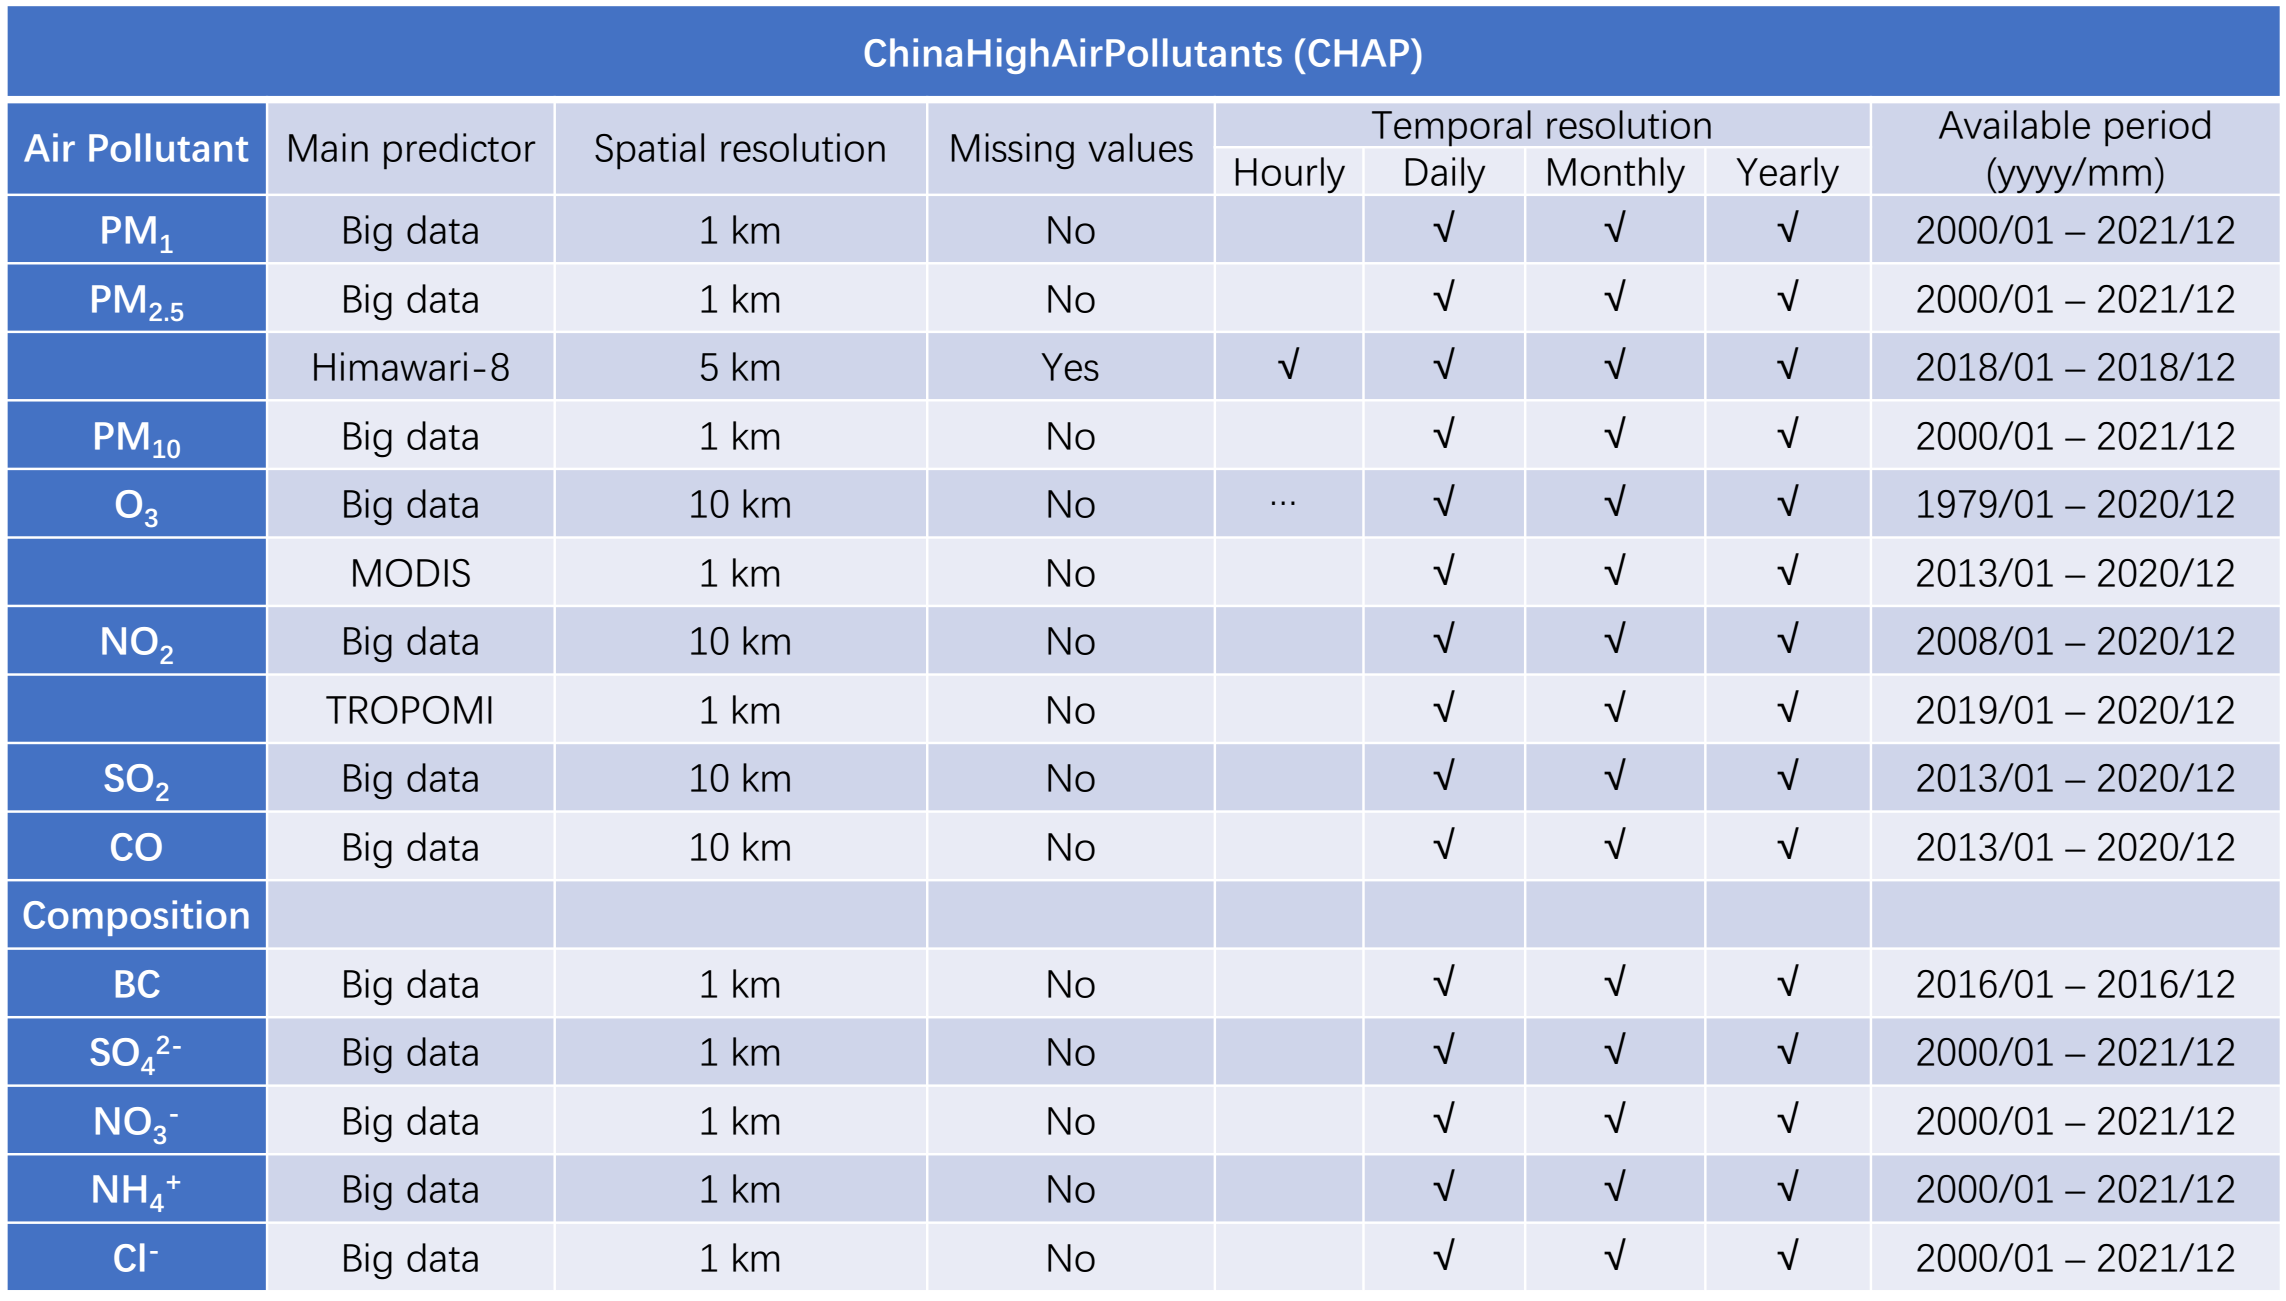
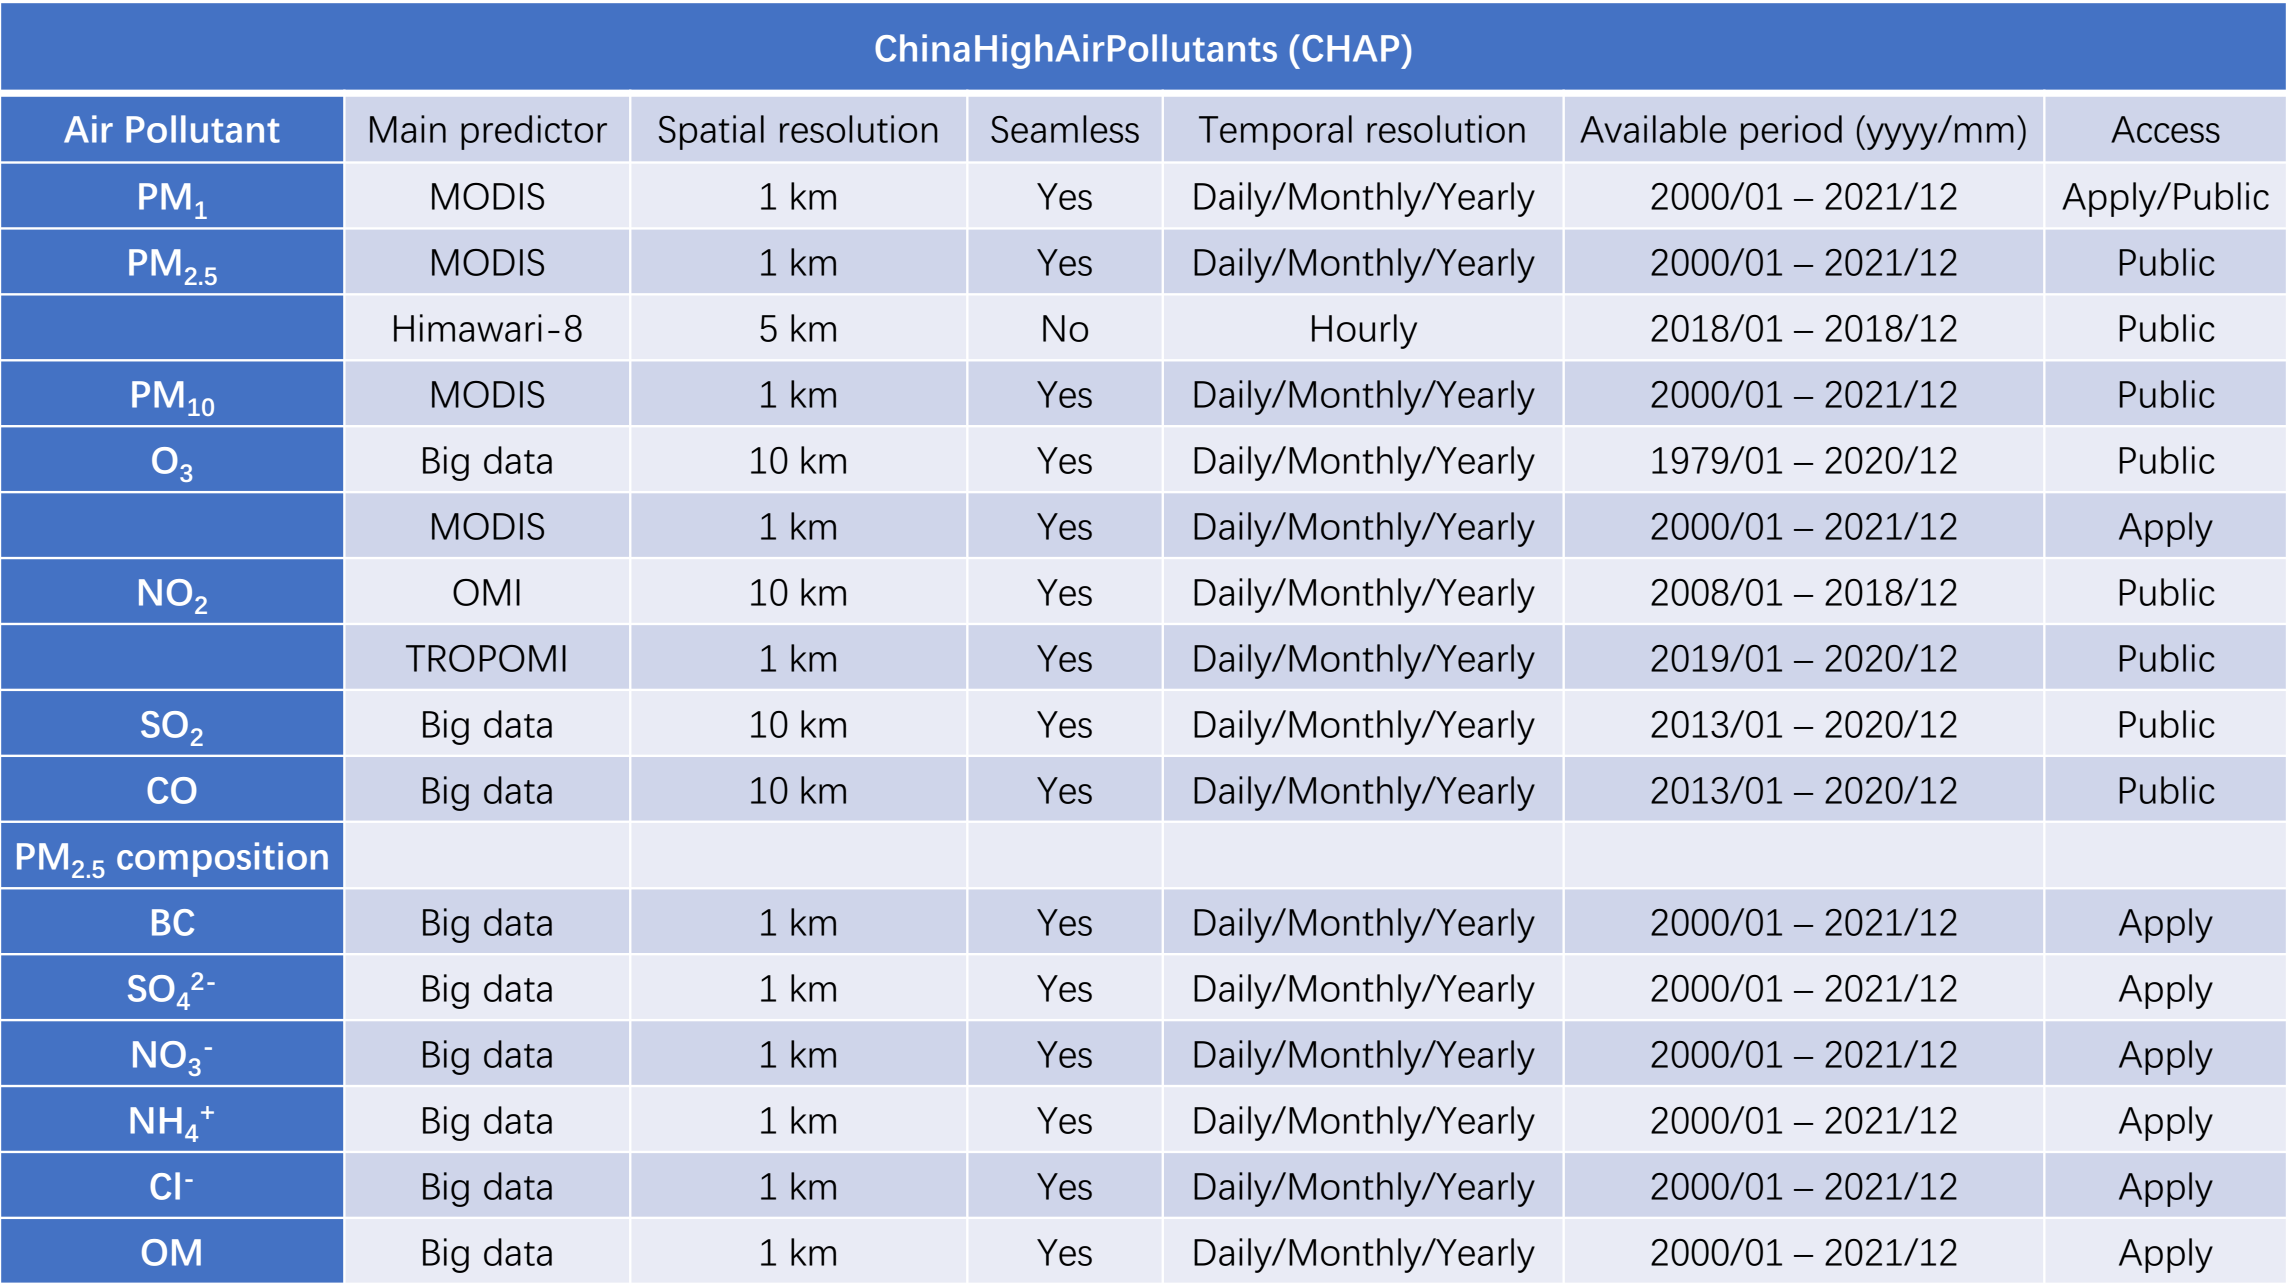
update

diff --git a/product.html b/product.html
@@ -47,7 +47,7 @@
 <div class="mdui-container doc-container">
   <div id="Product" style=" font-size:16px;"> 
     <p>&nbsp;</p>
-    <p style="text-align:center;"> <strong><font size="4" color="red">New update: <a href='https://doi.org/10.5281/zenodo.3538555' target='_blank' class='url'>New seamless 1 km ChinaHighPM<sub>1</sub> dataset released!</a></font></strong></p>   
+    <p style="text-align:center;"> <strong><font size="4" color="red">New update: <a href='https://doi.org/10.5281/zenodo.7574177' target='_blank' class='url'>New seamless 10 km ChinaHighNO<sub>2</sub>, ChinaHighSO<sub>2</sub>, and ChinaHighCO dataset released!</a></font></strong></p>   
     <ul>
     <p style="text-align:center;"> <strong><font size="4">GlobalHighAirPollutants (GHAP)</font></strong></p>
     <li><p><strong>Brief Introduction</strong></p>
@@ -88,7 +88,7 @@
 
     <li><p><strong>Dataset summary</strong></p>
       <div align="center">
-        <img src="./pictures/CHAP.jpg" width="90%" />
+        <img src="./pictures/CHAP.png" width="90%" />
       </div>
     </li>
 

diff --git a/news.html b/news.html
@@ -49,6 +49,7 @@
   <div class="mdui-container doc-container">
     <div id="News" style=" font-size:16px;">
       <p>&nbsp;</p>
+      <p>2023-01-26 ChinaHighNO<sub>2</sub>, ChinaHighSO<sub>2</sub>, and ChinaHighCO have been released in <a href="https://weijing-rs.github.io/product.html"> <strong>Zenodo</strong></a> !</p>       
       <p>2023-01-26 Our paper has been accepted and fully published in <a href="https://doi.org/10.5194/acp-23-1511-2023"> <strong>Atmospheric Chemistry and Physics</strong></a> !</p>            
       <p>2023-01-25 Our paper has been accepted and fully published in <a href="https://doi.org/10.1186/s12916-023-02734-9"> <strong>BMC Medicine</strong></a> !</p>            
       <p>2023-01-19 Dr. Jing Wei was appointed as the Associate Editor for the journal <a href="https://agupubs.onlinelibrary.wiley.com/journal/21698996"> <strong>Journal of Geophysical Research: Atmospheres</strong></a> !</p>            

diff --git a/publication.html b/publication.html
@@ -55,7 +55,7 @@
       <p style="text-align:center;"><strong>In Review (2)</strong></p>
       <ul>
         <li>
-          <p><strong>Wei, J.*</strong>, Li, Z., Chen, X., Li, C., Sun, Y., Wang, J., Lyapustin, A., Brasseur, G., Jiang, M., Sun, L., Wang, T., Jung, C., Qiu, B., Fang, C., Liu, X., Hao, J., Wang, Y., Zhan, M., Song, X., and Liu, X. 
+          <p><strong>Wei, J.*</strong>, Li, Z., Chen, X., Li, C., Sun, Y., Wang, J., Lyapustin, A., Brasseur, G., Jiang, M., Sun, L., Wang, T., Jung, C., Qiu, B., Fang, C., Liu, X., Hao, J., Wang, Y., Zhan, M., Song, X., and Liu, Y. 
             Apportioning daily 1 km PM<sub>2.5</sub> chemical composition in China via deep learning integrating ground, satellite, and model data.
             2023, in review.</p>
         </li>  
